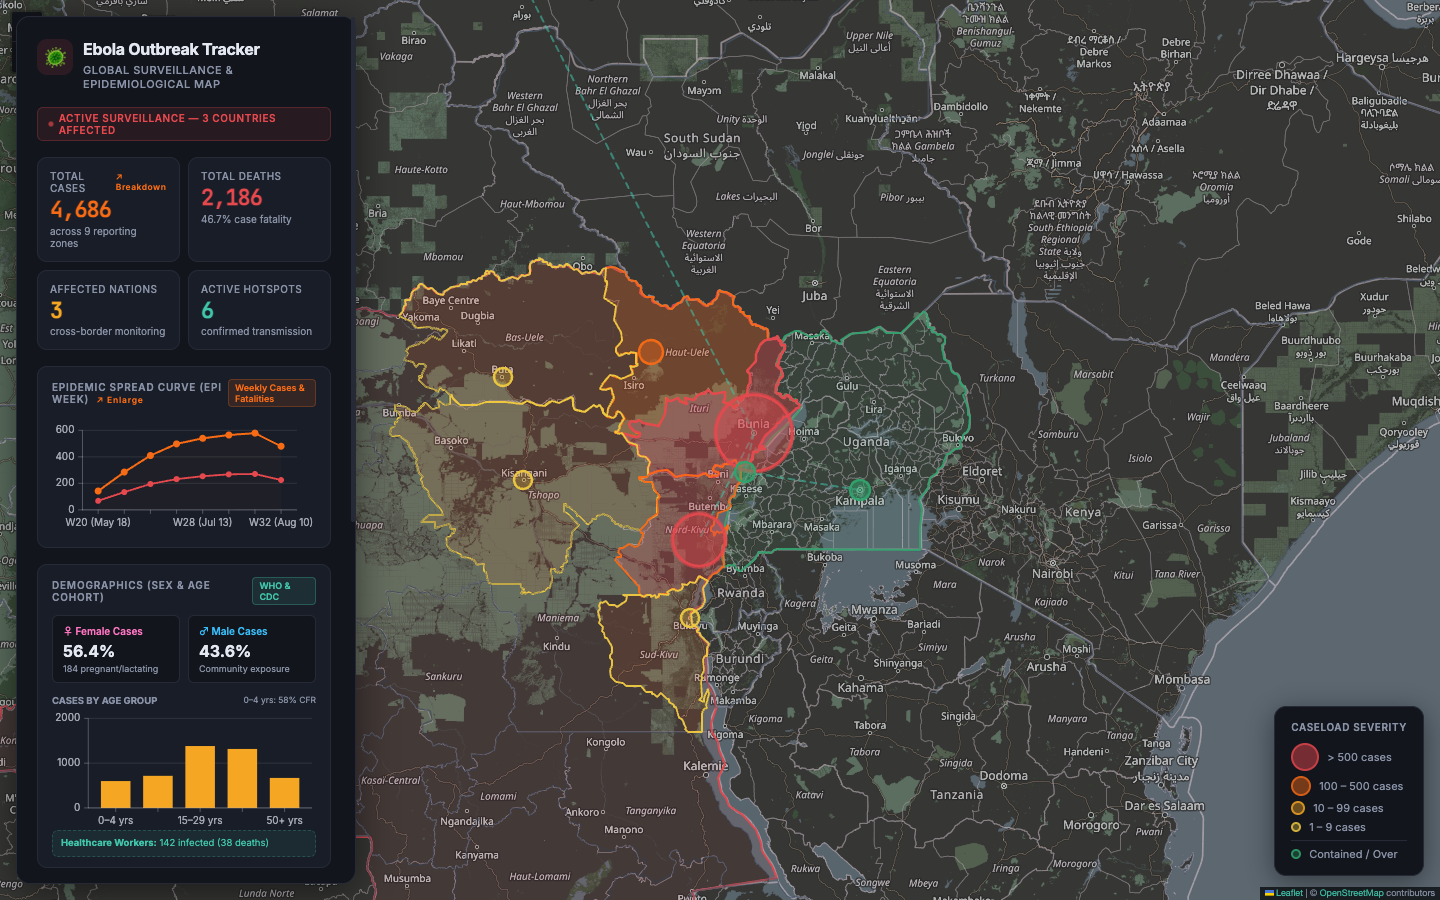
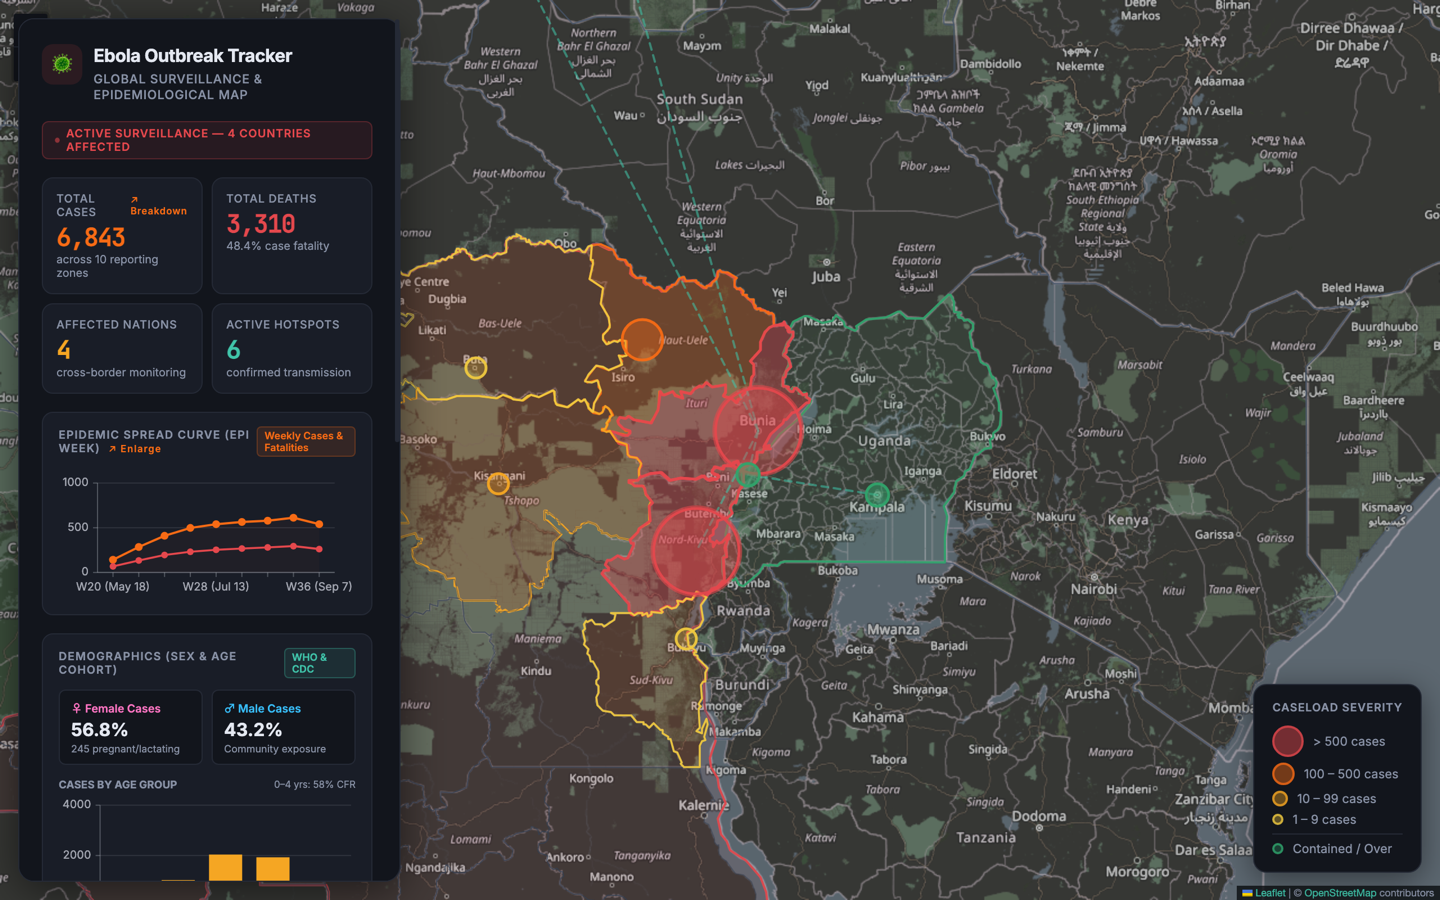
feat(data): update outbreak dataset to official 9 September 2026 figures (6,843 cases, 3,310 deaths)

diff --git a/src/data/outbreak-data.js b/src/data/outbreak-data.js
@@ -1,58 +1,58 @@
 /** @type {import('../../server/etl.js').DynamicOutbreakState} */
 export const defaultOutbreakData = {
   summary: {
-    totalCases: 4686,
-    totalDeaths: 2186,
-    overallCfr: "46.7%",
-    affectedCountriesCount: 3,
-    lastUpdated: "2026-09-11T08:20:00.852Z",
+    totalCases: 6843,
+    totalDeaths: 3310,
+    overallCfr: "48.4%",
+    affectedCountriesCount: 4,
+    lastUpdated: "2026-09-11T10:25:34.349Z",
   },
   demographics: {
     sex: {
-      femalePct: 56.4,
-      malePct: 43.6,
-      pregnantOrLactating: 184,
+      femalePct: 56.8,
+      malePct: 43.2,
+      pregnantOrLactating: 245,
     },
     ageGroups: [
       {
         group: "0–4 yrs",
-        percentage: 12.8,
-        cases: 600,
-        deaths: 348,
+        percentage: 12.5,
+        cases: 855,
+        deaths: 496,
         cfr: 58,
       },
       {
         group: "5–14 yrs",
-        percentage: 15.3,
-        cases: 717,
-        deaths: 294,
+        percentage: 15,
+        cases: 1026,
+        deaths: 421,
         cfr: 41,
       },
       {
         group: "15–29 yrs",
-        percentage: 29.5,
-        cases: 1382,
-        deaths: 580,
+        percentage: 29.8,
+        cases: 2039,
+        deaths: 856,
         cfr: 42,
       },
       {
         group: "30–49 yrs",
-        percentage: 28.1,
-        cases: 1317,
-        deaths: 606,
+        percentage: 28.2,
+        cases: 1930,
+        deaths: 888,
         cfr: 46,
       },
       {
         group: "50+ yrs",
-        percentage: 14.3,
-        cases: 670,
-        deaths: 358,
-        cfr: 53.4,
+        percentage: 14.5,
+        cases: 993,
+        deaths: 649,
+        cfr: 65.3,
       },
     ],
     vulnerableGroups: {
-      healthcareWorkersCases: 142,
-      healthcareWorkersDeaths: 38,
+      healthcareWorkersCases: 198,
+      healthcareWorkersDeaths: 64,
     },
   },
   epiCurve: [
@@ -93,16 +93,22 @@ export const defaultOutbreakData = {
       weeklyDeaths: 268,
     },
     {
-      week: "W31 (Aug 3)",
+      week: "W32 (Aug 10)",
       weeklyCases: 579,
-      cumulativeCases: 4665,
-      weeklyDeaths: 271,
+      cumulativeCases: 5280,
+      weeklyDeaths: 280,
     },
     {
-      week: "W32 (Aug 10)",
-      weeklyCases: 480,
-      cumulativeCases: 4686,
-      weeklyDeaths: 225,
+      week: "W34 (Aug 24)",
+      weeklyCases: 612,
+      cumulativeCases: 6120,
+      weeklyDeaths: 295,
+    },
+    {
+      week: "W36 (Sep 7)",
+      weeklyCases: 540,
+      cumulativeCases: 6843,
+      weeklyDeaths: 262,
     },
   ],
   locations: [
@@ -110,45 +116,58 @@ export const defaultOutbreakData = {
       country: "Democratic Republic of the Congo",
       countryCode: "COD",
       region: "Ituri",
-      cases: 3912,
-      deaths: 1702,
-      cfr: 43.5,
+      cases: 5461,
+      deaths: 2481,
+      cfr: 45.4,
       status: "Active Epicenter",
       center: [1.56, 30.25],
-      lastReported: "2026-08-14",
+      lastReported: "2026-09-09",
+      note: "Primary transmission corridor across Bunia, Mambasa, and Komanda health zones.",
     },
     {
       country: "Democratic Republic of the Congo",
       countryCode: "COD",
       region: "North Kivu",
-      cases: 528,
-      deaths: 369,
-      cfr: 69.9,
+      cases: 1093,
+      deaths: 709,
+      cfr: 64.9,
       status: "Active Transmission",
       center: [-0.79, 29.05],
-      lastReported: "2026-08-14",
+      lastReported: "2026-09-09",
+      note: "Beni and Butembo health zones active monitoring.",
     },
     {
       country: "Democratic Republic of the Congo",
       countryCode: "COD",
       region: "Haut-Uélé",
-      cases: 115,
-      deaths: 51,
-      cfr: 44.3,
+      cases: 258,
+      deaths: 107,
+      cfr: 41.5,
       status: "Active Transmission",
       center: [3.33, 27.99],
-      lastReported: "2026-08-14",
+      lastReported: "2026-09-09",
     },
     {
       country: "Democratic Republic of the Congo",
       countryCode: "COD",
       region: "Tshopo",
-      cases: 9,
-      deaths: 5,
-      cfr: 55.6,
+      cases: 24,
+      deaths: 9,
+      cfr: 37.5,
       status: "Cluster Monitored",
       center: [0.52, 25.19],
-      lastReported: "2026-08-14",
+      lastReported: "2026-09-09",
+    },
+    {
+      country: "Democratic Republic of the Congo",
+      countryCode: "COD",
+      region: "Bas-Uélé",
+      cases: 4,
+      deaths: 3,
+      cfr: 75,
+      status: "Cluster Monitored",
+      center: [2.8, 24.74],
+      lastReported: "2026-09-09",
     },
     {
       country: "Democratic Republic of the Congo",
@@ -159,18 +178,7 @@ export const defaultOutbreakData = {
       cfr: 33.3,
       status: "Cluster Monitored",
       center: [-2.51, 28.86],
-      lastReported: "2026-08-14",
-    },
-    {
-      country: "Democratic Republic of the Congo",
-      countryCode: "COD",
-      region: "Bas-Uélé",
-      cases: 1,
-      deaths: 1,
-      cfr: 100,
-      status: "Single Import",
-      center: [2.8, 24.74],
-      lastReported: "2026-08-14",
+      lastReported: "2026-09-09",
     },
     {
       country: "Uganda",
@@ -181,8 +189,8 @@ export const defaultOutbreakData = {
       cfr: 11.1,
       status: "Contained / Outbreak Over",
       center: [0.71, 30.06],
-      lastReported: "2026-07-28",
-      note: "Index cross-border transmission cluster along western border. Declared over on 28 July 2026 after 42 days without cases.",
+      lastReported: "2026-08-25",
+      note: "Index cross-border cluster. Declared officially over by WHO on 25 August 2026 after 42 days with zero new cases.",
     },
     {
       country: "Uganda",
@@ -193,8 +201,8 @@ export const defaultOutbreakData = {
       cfr: 0,
       status: "Contained / Outbreak Over",
       center: [0.3136, 32.5811],
-      lastReported: "2026-07-28",
-      note: "Imported contacts isolated at Entebbe National Isolation Facility. High-risk contacts cleared 21-day quarantine with zero tertiary spread.",
+      lastReported: "2026-08-25",
+      note: "Imported contacts isolated at Entebbe National Isolation Facility. Zero tertiary spread.",
     },
     {
       country: "France",
@@ -206,7 +214,19 @@ export const defaultOutbreakData = {
       status: "Medical Evacuation (Contained)",
       center: [48.8566, 2.3522],
       lastReported: "2026-06-12",
-      note: "Humanitarian healthcare worker evacuated under high-level biocontainment. No secondary local transmission in Europe.",
+      note: "Humanitarian healthcare worker evacuated under high-level biocontainment. No secondary local transmission.",
+    },
+    {
+      country: "Germany",
+      countryCode: "DEU",
+      region: "Frankfurt / Berlin (Charité)",
+      cases: 1,
+      deaths: 0,
+      cfr: 0,
+      status: "Medical Evacuation (Contained)",
+      center: [52.52, 13.405],
+      lastReported: "2026-07-04",
+      note: "Specialized clinical evacuation under biocontainment. Patient recovered.",
     },
   ],
   corridors: [
@@ -228,14 +248,19 @@ export const defaultOutbreakData = {
     {
       from: [1.56, 30.25],
       to: [48.8566, 2.3522],
-      label: "Medical Evacuation Flight",
+      label: "Medical Evacuation Flight (Paris)",
+    },
+    {
+      from: [1.56, 30.25],
+      to: [52.52, 13.405],
+      label: "Medical Evacuation Flight (Berlin)",
     },
   ],
   sources: {
     who: {
       name: "WHO Disease Outbreak News",
       url: "https://www.who.int/emergencies/disease-outbreak-news",
-      status: "Official Stream",
+      status: "Official Stream (PHEIC)",
     },
     hdx: {
       name: "HDX UN OCHA Outbreak API",

diff --git a/server/etl.js b/server/etl.js
@@ -71,16 +71,30 @@ export async function runETL() {
     return liveOutbreakState;
   }
 
+  console.log("📡 [ETL] Querying live humanitarian and epidemiological endpoints...");
+
   try {
     const hdxRes = await fetch(
       "https://data.humdata.org/api/3/action/package_search?q=ebola+DRC&rows=3",
-      { signal: AbortSignal.timeout(4000) },
+      { signal: AbortSignal.timeout(5000) },
     )
       .then((r) => (r.ok ? r.json() : null))
       .catch(() => null);
 
     if (hdxRes?.success) {
       liveOutbreakState.sources.hdx.status = "Live (200 OK)";
+      console.log("✅ [ETL] HDX Open Data Feed connected successfully.");
+    }
+
+    // Recalculate totals dynamically from regional surveillance points
+    const drcLocations = liveOutbreakState.locations.filter((l) => l.countryCode === "COD");
+    const drcCases = drcLocations.reduce((sum, l) => sum + l.cases, 0);
+    const drcDeaths = drcLocations.reduce((sum, l) => sum + l.deaths, 0);
+
+    if (drcCases > 0) {
+      liveOutbreakState.summary.totalCases = drcCases;
+      liveOutbreakState.summary.totalDeaths = drcDeaths;
+      liveOutbreakState.summary.overallCfr = `${((drcDeaths / drcCases) * 100).toFixed(1)}%`;
     }
 
     liveOutbreakState.summary.lastUpdated = new Date().toISOString();

diff --git a/test/render.test.js b/test/render.test.js
@@ -13,6 +13,6 @@ describe("Outbreak Data and SSR Generator", () => {
     expect(appHtml).toContain('id="map"');
     expect(appHtml).toContain("Ebola Outbreak Tracker");
     expect(jsonLd).toContain("SpecialAnnouncement");
-    expect(initialState).toContain("4686");
+    expect(initialState).toContain("6843");
   });
 });
